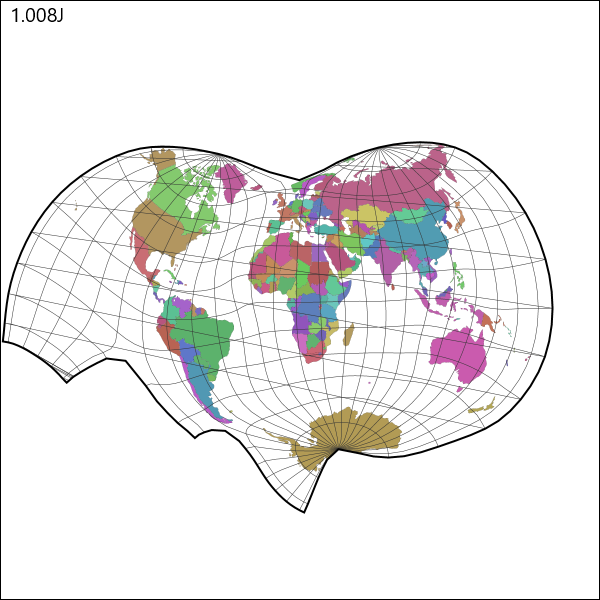
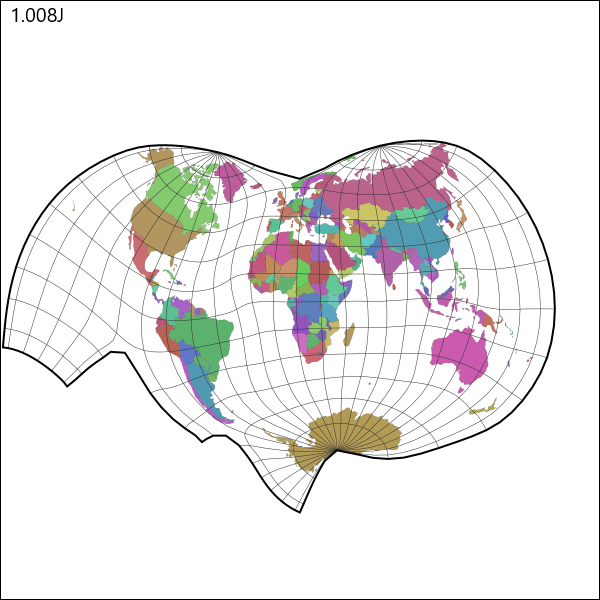
AAAAAA GET THEM OFF
I got rid of those lines. Yay.

Changed region(s): [[0.0, 0.21, 0.93, 0.87]]

diff --git a/src/view/Renderer.java b/src/view/Renderer.java
@@ -54,9 +54,11 @@ import javafx.scene.Group;
 import javafx.scene.Scene;
 import javafx.scene.image.Image;
 import javafx.scene.paint.Color;
+import javafx.scene.shape.ClosePath;
 import javafx.scene.shape.LineTo;
 import javafx.scene.shape.MoveTo;
 import javafx.scene.shape.Path;
+import javafx.scene.shape.PathElement;
 import javafx.scene.shape.Polygon;
 import javafx.scene.shape.Rectangle;
 import javafx.scene.shape.Shape;
@@ -71,6 +73,8 @@ import model.Vertex;
  * @author Justin Kunimune
  */
 public class Renderer {
+	
+	private static final double MAX_SEGMENT_LENGTH = 1;
 	
 	private final Group entities;
 	private final Polygon border;
@@ -176,6 +180,7 @@ public class Renderer {
 				pgon.getElements().add(new LineTo(0, 0)); // TODO: do I need a closepath?
 			
 			if (Geometries.get(geom) == Geometries.POLYGON) { // formatting depends on whether its a polygon
+				pgon.getElements().add(new ClosePath());
 				pgon.setStroke(Color.BLACK);
 				pgon.setStrokeWidth(.1);
 				pgon.setFill(randomColor((String)geom.getUserData()));
@@ -185,8 +190,6 @@ public class Renderer {
 				pgon.setStrokeWidth(.5);
 				pgon.setFill(null);
 			}
-//			case POINT:
-//				continue;
 			else {
 				System.err.println("I have not accounted for "+Geometries.get(geom)+"s");
 			}
@@ -234,6 +237,19 @@ public class Renderer {
 				else if (shape.getElements().get(i) instanceof LineTo) {
 					((LineTo)shape.getElements().get(i)).setX(cartCoords.get(i)[0]);
 					((LineTo)shape.getElements().get(i)).setY(cartCoords.get(i)[1]);
+				}
+			}
+			if (shape.getElements().get(shape.getElements().size()-1) instanceof LineTo) { // and if it is a line
+				for (int i = 1; i < cartCoords.size(); i ++) {
+					PathElement ele0 = shape.getElements().get(i-1), ele1 = shape.getElements().get(i);
+					double x0 = (ele0 instanceof LineTo) ? ((LineTo)ele0).getX() : ((MoveTo)ele0).getX();
+					double y0 = (ele0 instanceof LineTo) ? ((LineTo)ele0).getY() : ((MoveTo)ele0).getY();
+					double x1 = (ele1 instanceof LineTo) ? ((LineTo)ele1).getX() : ((MoveTo)ele1).getX();
+					double y1 = (ele1 instanceof LineTo) ? ((LineTo)ele1).getY() : ((MoveTo)ele1).getY();
+					if (ele1 instanceof LineTo &&
+							scale*Math.hypot(x1 - x0, y1 - y0) > MAX_SEGMENT_LENGTH) {
+						shape.getElements().set(i, new MoveTo(x1, y1)); // cut any components that are too long
+					}
 				}
 			}
 		}
